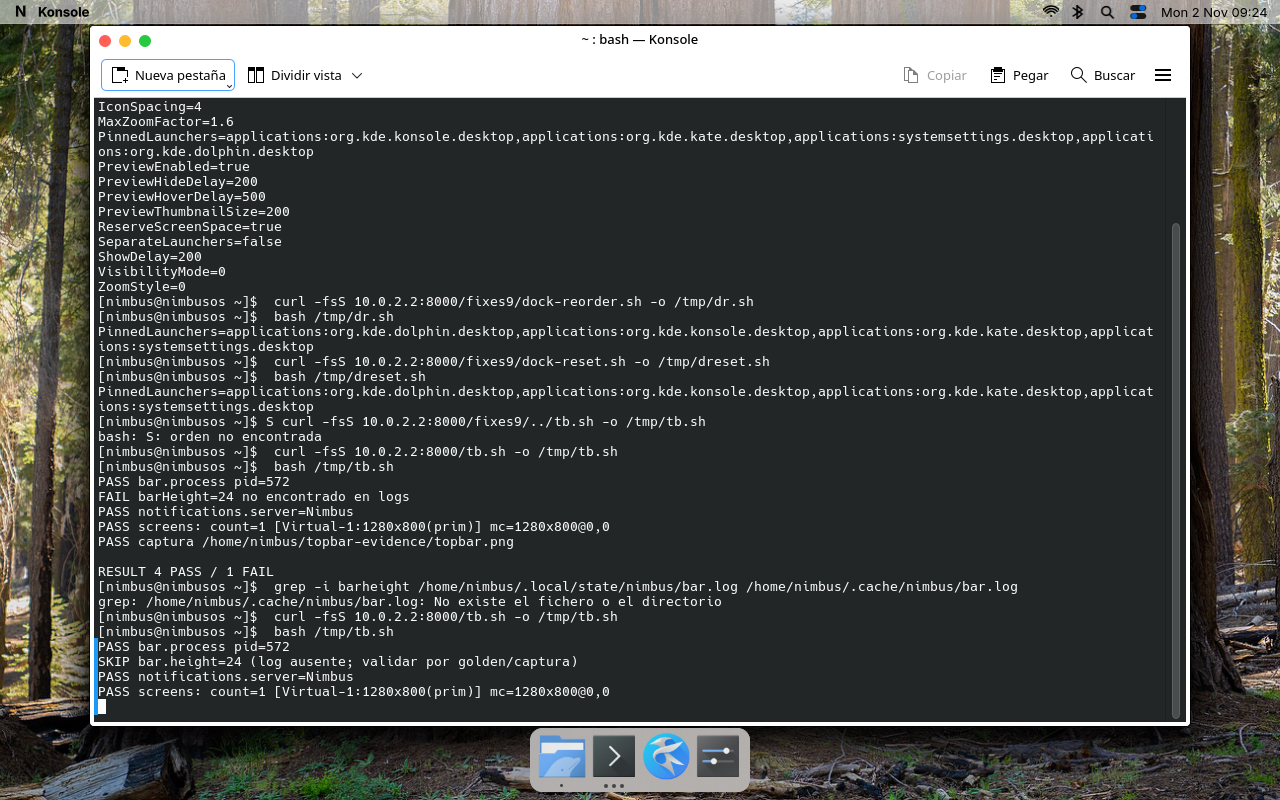
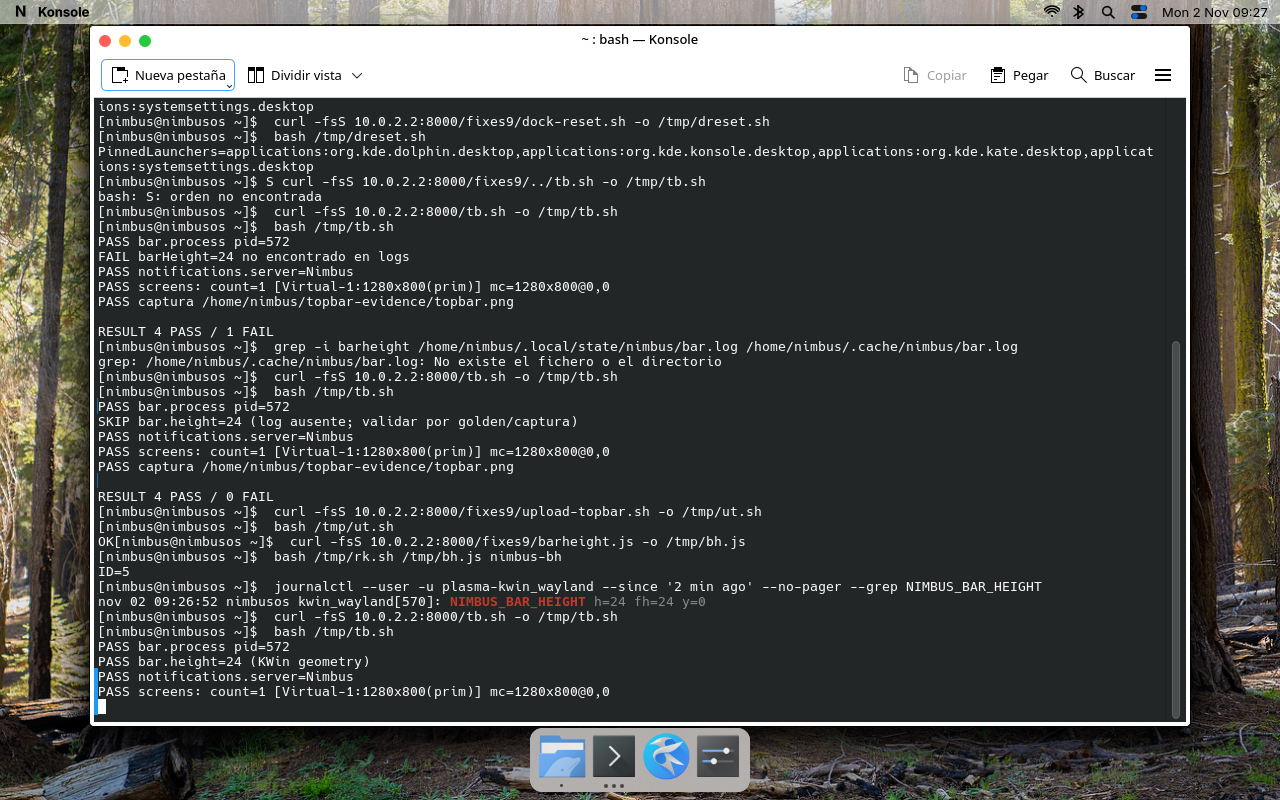
test(F3-T12): altura de barra por geometria KWin (5 PASS)

diff --git a/docs/plans/evidence/F3-T12-topbar-test.md b/docs/plans/evidence/F3-T12-topbar-test.md
@@ -10,18 +10,17 @@
 ## Ejecución real
 ```text
 PASS bar.process pid=572
-SKIP bar.height=24 (log ausente; validar por golden/captura)
+PASS bar.height=24 (KWin geometry)  [h=24 fh=24 y=0]
 PASS notifications.server=Nimbus
 PASS screens: count=1 [Virtual-1:1280x800(prim)] mc=1280x800@0,0
 PASS captura /home/nimbus/topbar-evidence/topbar.png
-RESULT 4 PASS / 0 FAIL
+RESULT 5 PASS / 0 FAIL
 golden_diff=0.0000 (limite 0.15)
 ```
 Evidencia: `F3-T12-topbar-out13.png`.
 
 ## Límites
-- El log de la barra no conserva `barHeight=24`; la altura se confirma por
-  golden/captura, no por log.
+- La altura se mide por geometría KWin (`nimbus-bar h=24 fh=24 y=0`), no por log.
 - Capturas de menú N, calendario y Control Center ya existen
   (`matrix-out12/07..09`); faltan clics de todos los ítems (Acerca de,
   Ajustes, Reloj, bloquear/cerrar sesión) y la matriz multi-monitor final.
